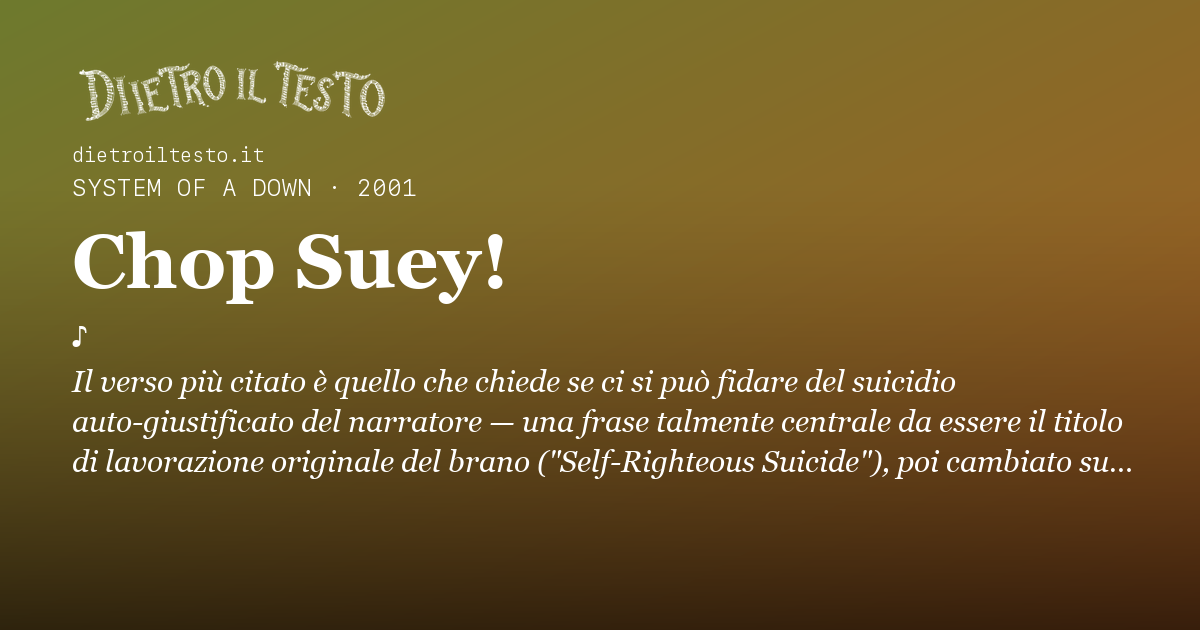
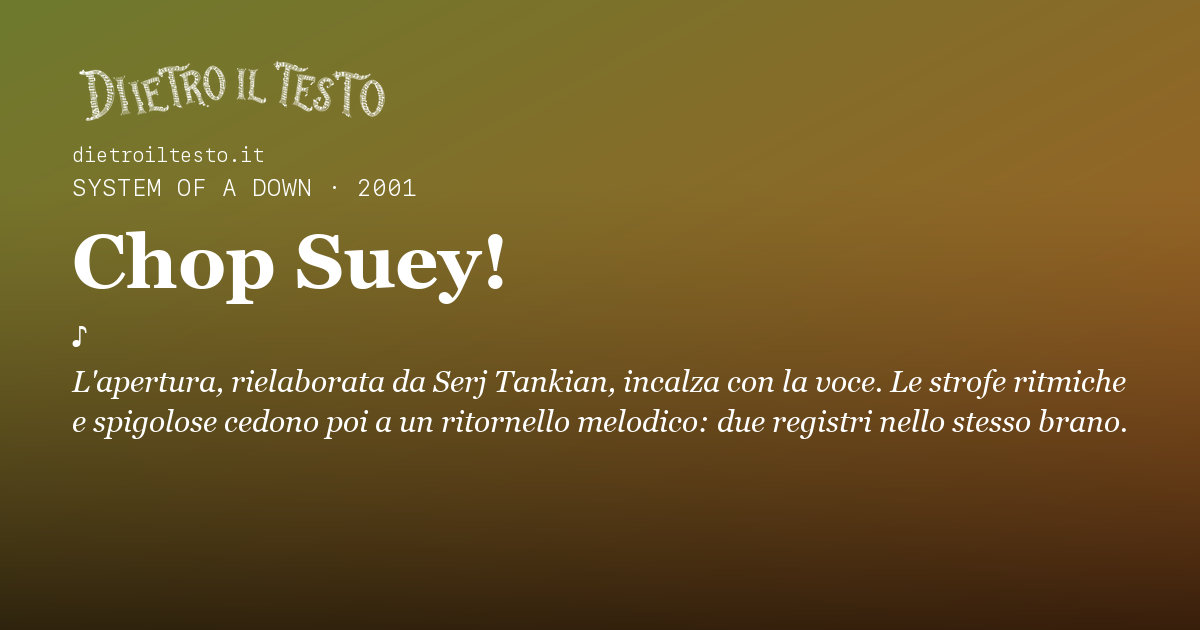
Correggi Chop Suey e il collegamento al testo

Changed region(s): [[0.0617, 0.573, 0.9558, 0.754]]

diff --git a/ROADMAP.md b/ROADMAP.md
@@ -4165,3 +4165,13 @@ Nella copia separata è stata riscritta la frase iconica a livello di funzione d
 Il proprietario ha scritto «applica e procedi» dopo aver visto la proposta del §30. Il commit `c2279c74` è stato integrato con avanzamento diretto in `main` locale. Rigenerato il sito: 26 file pubblicabili sono cambiati, fra cui la pagina della canzone, le anteprime collegate, l'indice di ricerca e le sitemap. Tutti i file del pacchetto generato coincidono byte per byte con quelli della cartella principale. Il file non tracciato `SEO-LASTMOD-2026-09-21.md` conserva lo stesso hash SHA-256 precedente.
 
 **Controlli:** `check-coerenza`, `check-seo`, `check-link`, `check-filtri`, `check-nature` e `git diff --check` passano. La verifica visiva desktop e mobile della pagina e dell'immagine condivisibile è documentata al §30. La modifica è nella cartella principale locale; non è stata inviata a GitHub né pubblicata online. Le correzioni di altre schede e le proposte di immagini restano in copie separate.
+
+## 35. Proposta separata: correzione di Chop Suey!, 1 ottobre 2026
+
+Il rapporto indipendente `rapporti/orario/42-chop-suey.md` segnala che la scheda attribuisce l'esempio dell'incidente a un conducente responsabile anziché alla persona morta, inverte la scelta del primo singolo e il successivo cambio di titolo e attribuisce la decisione al solo Malakian. Ripete due di queste affermazioni nella frase iconica. Segnala inoltre il contributo di Serj Tankian omesso, un tema non documentato, il conteggio Spotify non mostrato nella pagina ma legato alla fonte generica di Kworb e un collegamento Letras che dipende da un redirect.
+
+Riaperto il [servizio firmato da Dave Everley per Metal Hammer](https://www.loudersound.com/music/tracks-singles/the-story-of-chop-suey-system-of-a-down), con dichiarazioni di Malakian, e consultata la [scheda enciclopedica del singolo](https://en.wikipedia.org/wiki/Chop_Suey!) solo per i dati non delicati. La pagina finale di [Letras](https://www.letras.com/system-of-a-down/39417/) è stata riaperta nel browser e conferma titolo e artista; nessun verso è stato copiato nella scheda. Nella copia separata sono stati corretti storia, ordine degli eventi e momento iconico, aggiunto Tankian e una curiosità attribuita a Malakian, tolti il tema e il conteggio non verificato nella fonte citata, aggiornati descrizione SEO e URL del testo. La ricostruzione su eventuali pressioni della casa discografica è stata lasciata fuori perché le fonti divergono. `ultimaVerifica` resta vuota: la correzione è mirata e non equivale a una revisione integrale.
+
+**Verifica.** Rigenerati il sito e `og/chop-suey.png`, ispezionata a risoluzione originale dopo aver accorciato la frase iconica: il testo ora è interamente leggibile. Pagina controllata nel browser a 1280 e 390 px, senza scorrimento orizzontale né errori di console; il collegamento al testo porta alla pagina corretta. Passano `check-coerenza`, `check-seo`, `check-link`, `check-attribuzioni --tutte` e `git diff --check`. Il controllo delle attribuzioni conserva 30 avvisi informativi preesistenti relativi ad altre schede. Catalogo invariato: 317 canzoni e 104 artisti.
+
+**Stato:** proposta isolata in `codex/correzione-chop-suey-2026-10-01`, per la revisione del proprietario. Non trasferita nella cartella principale, non inviata né pubblicata; le altre proposte e il lavoro dell'altra AI restano separati.
